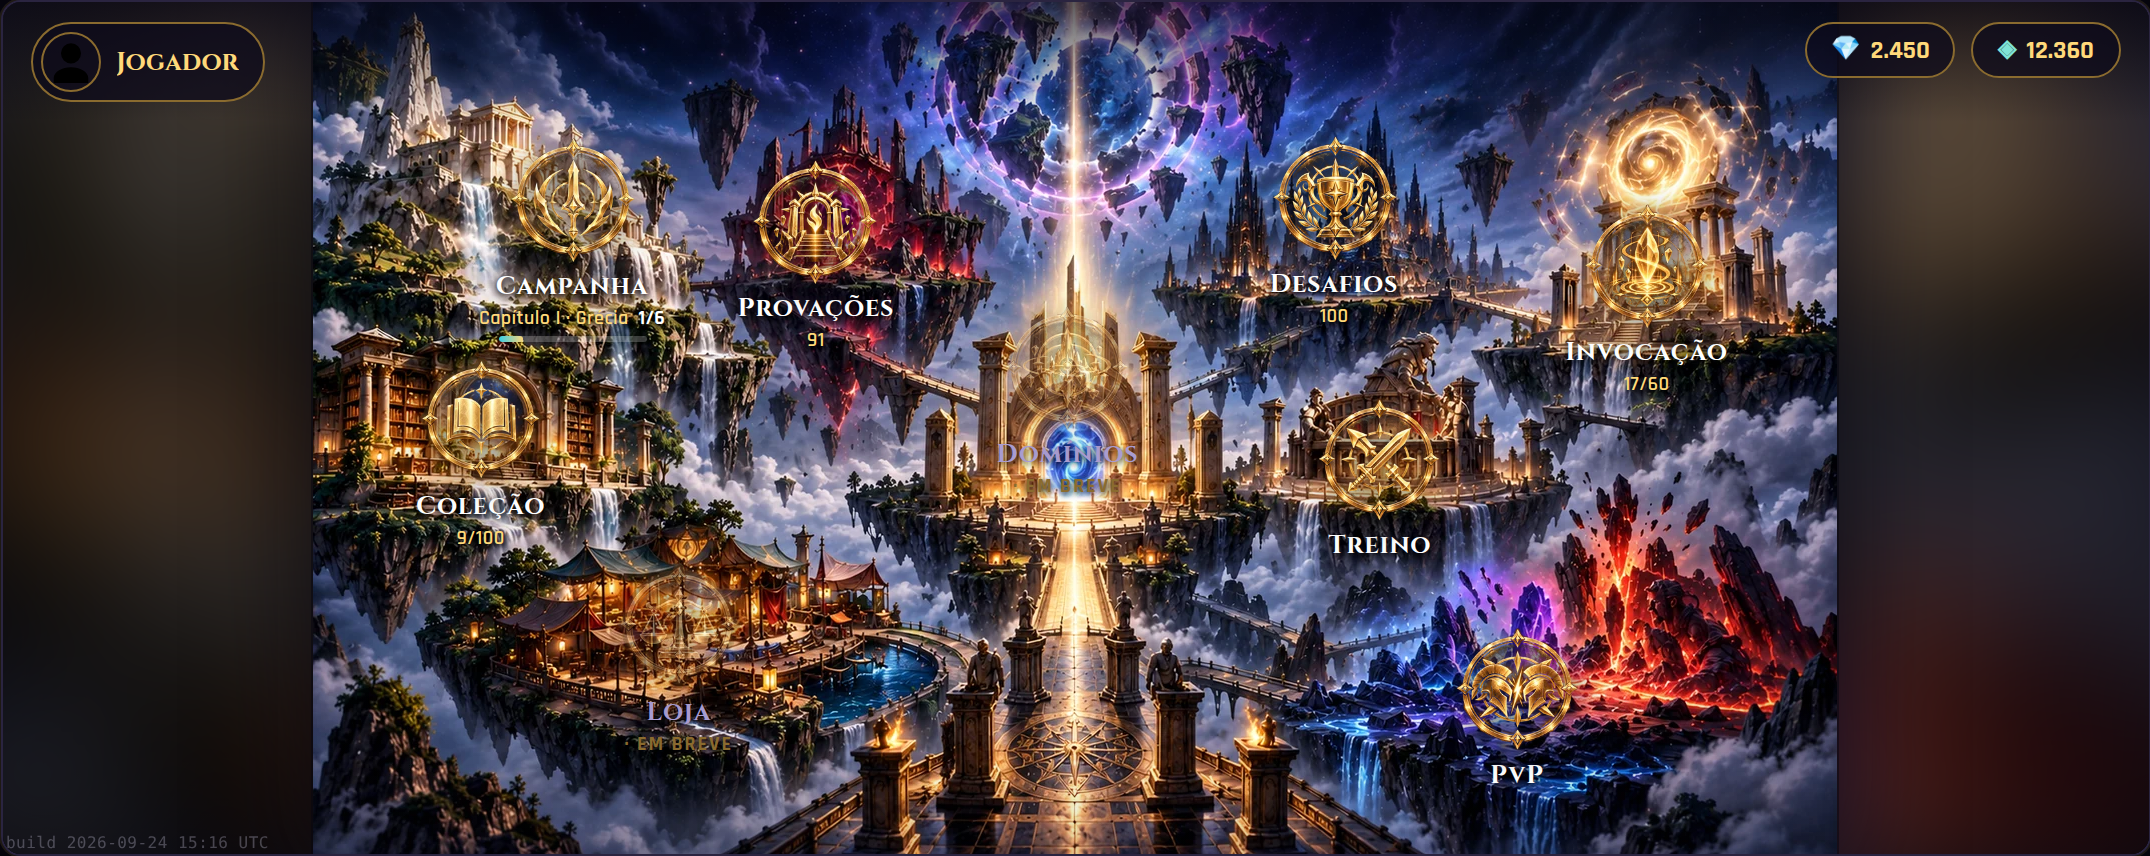
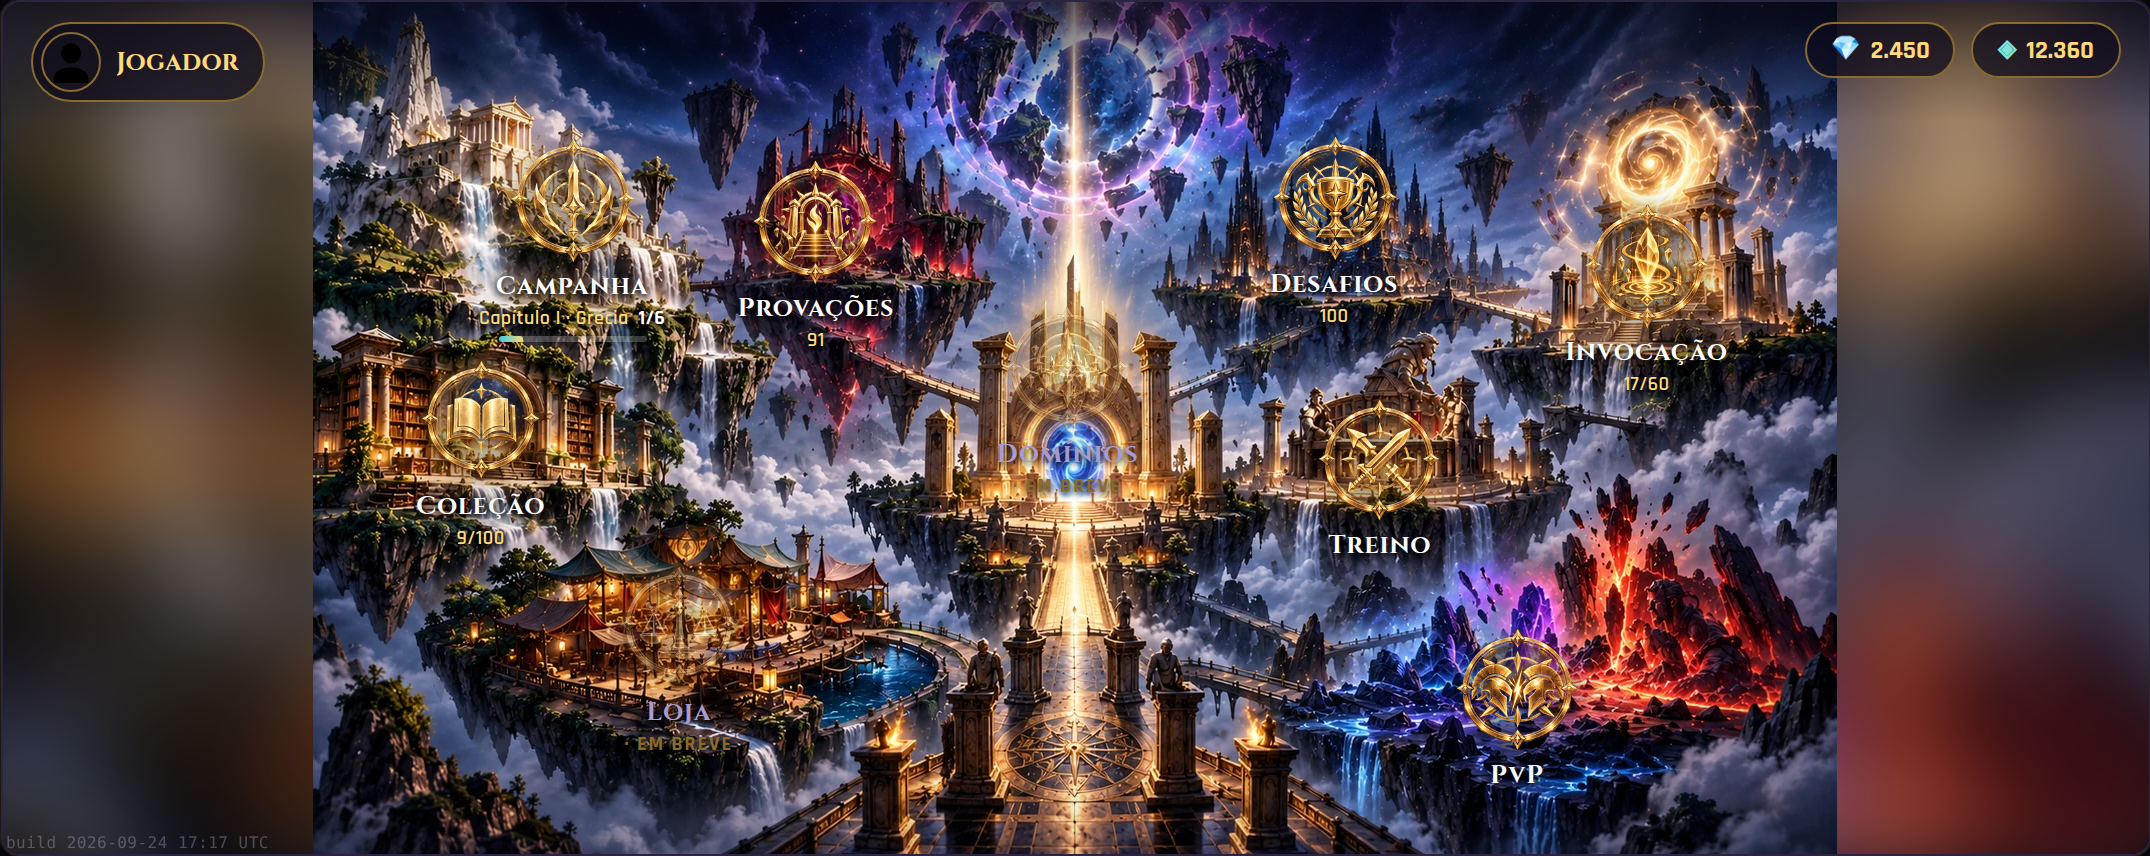
§309b: clareia a extensão do mapa (60–80% do brilho) + tira a vinheta
A extensão letterbox-blur do §309 (brightness .42) ficava escura demais:
no S24 media ~27 de brilho contra 60–70 do mapa nítido — menos da metade,
o olho lia banda preta em vez de continuação da cena.

Três ajustes, medidos pela razão extensão÷mapa (a captura é o veredito):
- brightness .42 → .75: "não competir" não é "sumir"; a extensão precisa
  ler como a mesma cena fora de foco, o que pede 60–80% do brilho, não 40%.
- blur 30px → 20px: o 30 apagava o contraste local junto com o detalhe
  (cinza chapado); o 20 mantém a variação claro/escuro que faz o olho
  reconhecer a continuação.
- vinheta (box-shadow) removida: escurecia exatamente a emenda e recriava
  a borda preta que o conserto existia para eliminar.

Razões no dist: 893 (largura do app no S24) = 0,62; 1075 (navegador do
dono) = 0,71 — ambas dentro do alvo de 60–80%. Capturas aprovadas.

Lição da sequência §308→§308b→§309→§309b (quatro cortes): "cortando as
laterais" foi lido como corte de imagem e medido como recorte duas vezes;
o sintoma real era faixa preta — mesma imagem, descrição oposta, conserto
oposto. Antes de medir, confirmar o que a pessoa vê. E uma direção
qualitativa ("não competir") precisa de alvo medível, senão a obediência
literal acerta a instrução e erra o objetivo.

Claude-Session: https://claude.ai/code/session_01RXkcJMEMadTZtCymgt9Yf6

Changed region(s): [[0.8414, 0.0, 1.0, 1.0], [0.0, 0.0, 0.1558, 0.972], [0.0, 0.8201, 0.0623, 1.0]]

diff --git a/src/shell.html b/src/shell.html
@@ -976,20 +976,22 @@ body{font-family:'Rajdhani',sans-serif;color:var(--ink);display:grid;place-items
    CAIXA DE PROPORÇÃO TRAVADA (1,78), centrada; o gutter mostra o stage__bg escuro (§305b, opção a).
    Os ícones ancoram em % DA ARTE (left/top da .ilha) — nunca saem das ilhas em 780..1200. */
 .mapa{position:absolute;inset:0;z-index:2;overflow:hidden}
-/* §309: o gutter deixa de ser preto e vira EXTENSÃO da própria arte — uma cópia do mapa cobrindo o palco inteiro,
-   DESFOCADA e ESCURECIDA, sob a caixa nítida (padrão letterbox-blur de app de vídeo). O olho lê como continuação da
-   cena; a tela não parece "não-preenchida". Mesmo arquivo (banners/mapa.webp) já em cache → PESO ZERO de rede; o
-   incursion.html cresce só o <img>. scale(1.08) esconde a borda transparente que o blur puxa; a caixa nítida fica por
-   cima (z-index maior). filter blur 30 + brilho .42 medidos no dist (§281): a extensão lê como fundo e não compete. */
+/* §309/§309b: o gutter vira EXTENSÃO da própria arte — cópia do mapa cobrindo o palco, DESFOCADA, sob a caixa nítida
+   (letterbox-blur de app de vídeo). Mesmo arquivo (banners/mapa.webp) em cache → PESO ZERO; o incursion.html cresce só
+   o <img>. scale(1.08) esconde a borda transparente que o blur puxa. §309b (o brilho .42 do §309 sumiu, virou tarja):
+   MEDIDO no dist a razão de brilho extensão÷mapa — brightness .75 + blur 20 dão ~0,71 (a mira do dono: 60–80%, perto o
+   bastante p/ ler como a mesma cena, longe o bastante p/ o mapa ser o assunto). Blur 30→20 preserva o contraste local.
+   A VINHETA (box-shadow na caixa) SAIU: escurecia justo a emenda, onde a continuidade tem de ser suave — a diferença de
+   NITIDEZ já separa o mapa da extensão (captura é o veredito, §281). */
 .mapa__fundo{position:absolute;inset:0;width:100%;height:100%;object-fit:cover;display:block;z-index:0;pointer-events:none;
-  transform:scale(1.08);filter:blur(30px) brightness(.42) saturate(.9)}
+  transform:scale(1.08);filter:blur(20px) brightness(.75) saturate(.95)}
 /* §308b: TRAVA em px explícito E FORA DO FLUXO (absolute). O §308 pôs width:762px num FLEX-ITEM — o Chromium honrava
    (762 em toda a faixa), mas a WebView do Galaxy S24 ESTICAVA o flex-item para a largura do palco (893) mesmo com
    flex:0 0 auto, e a arte (cover) cortava ~15% da altura. Um filho ABSOLUTO não é flex-item: nenhum pai (flex ou não)
    consegue esticá-lo. A caixa é um 762×428 CONHECIDO (762 = 428 × 1524/856, idêntico à arte), centrada por
    left/top:50% + translate — sem negociação de layout com motor nenhum. A arte (cover) preenche exato porque a razão
    bate (cover==contain aqui); os ícones ancoram em % de 762×428. */
-.mapa__caixa{position:absolute;left:50%;top:50%;transform:translate(-50%,-50%);width:762px;height:428px;z-index:1;box-shadow:0 0 0 1px rgba(6,5,16,.5),0 0 40px 8px rgba(6,5,16,.55)}
+.mapa__caixa{position:absolute;left:50%;top:50%;transform:translate(-50%,-50%);width:762px;height:428px;z-index:1}
 .mapa__art{position:absolute;inset:0;width:100%;height:100%;object-fit:cover;display:block}
 .mapa__scrim{position:absolute;inset:0;pointer-events:none;
   background:radial-gradient(120% 82% at 50% 42%,transparent 56%,rgba(6,5,16,.34) 100%)}

diff --git a/DECISOES.md b/DECISOES.md
@@ -6,6 +6,41 @@ O valor daqui é evitar que uma decisão seja desfeita por parecer arbitrária.
 
 ---
 
+## §309b — a extensão do §309 ficou ESCURA DEMAIS: calibrar o brilho. E a lição da sequência inteira (quatro cortes).
+
+A extensão do §309 funcionava mas o dono mediu no S24: brilho ~27 nas laterais contra 60–70 do mapa nítido — **menos da
+metade**, o olho lia banda preta, não continuação. O alvo dele: **a extensão entre 60% e 80% do brilho do mapa.**
+
+**A MEDIÇÃO (razão extensão ÷ mapa nítido, reportada ao dono; a captura é o veredito):**
+- **Antes (§309):** `blur(30px) brightness(.42)` → gutter 31, mapa 83, **razão 0,38**. Batia com os ~27 do aparelho.
+- **Depois (§309b):** `blur(20px) brightness(.75) saturate(.95)` → **893: razão 0,62** (a largura real do app no S24);
+  **1075: razão 0,71** (a do navegador do dono). Ambas dentro de 60–80%. Capturas 893/1075 enviadas e APROVADAS.
+
+**OS TRÊS AJUSTES — eles se explicam juntos:**
+- **brightness `.42` → `.75`:** o `.42` fez a extensão DESAPARECER. "Não competir" não é "sumir" — a extensão precisa
+  ler como a MESMA cena fora de foco, e isso pede 60–80% do brilho do mapa, não 40%. O `.42` obedeceu a instrução
+  ("não competir") e não resolveu o problema (a tela parecer cheia).
+- **blur `30px` → `20px`:** o `30` apagava o CONTRASTE LOCAL junto com o detalhe, e a extensão virava cinza chapado.
+  O `20` mantém a variação claro/escuro da cena — é essa variação que faz o olho RECONHECER a continuação, não só o
+  brilho médio.
+- **vinheta REMOVIDA:** o `box-shadow` do §309 escurecia EXATAMENTE a emenda e recriava a borda preta que o conserto
+  existia para eliminar. Medido com e sem: sem vinheta a transição extensão→mapa é contínua; com, reaparece o anel
+  escuro no encaixe. A vinheta separava o nítido da extensão, mas ao custo de re-escurecer a junção — troca ruim.
+
+**★ A LIÇÃO DA SEQUÊNCIA INTEIRA (§308 → §308b → §309 → §309b — custou QUATRO cortes):** o dono disse "cortando as
+laterais". Eu li **corte de imagem** e mandei medir recorte DUAS vezes (§308, §308b). O sintoma real era **faixa preta**
+— a mesma imagem, a descrição oposta, o conserto oposto. Depois, ao consertar, pedi-me "não competir com o mapa" e
+apliquei `.42`, que resolveu a INSTRUÇÃO e não o PROBLEMA. **As duas metades:**
+1. **Antes de medir, confirmar O QUE A PESSOA VÊ**, não interpretar a palavra dela. ("Cortando" e "faixa preta" leem a
+   mesma tela e pedem consertos opostos — só a confirmação do sintoma desfaz o empate.)
+2. **Ao dar uma direção QUALITATIVA ("não competir"), dar também o ALVO MEDÍVEL** (60–80% do brilho), senão a obediência
+   literal acerta a instrução e erra o objetivo — foi exatamente o `.42`.
+
+**Guarda:** as asserções do §309 (`mapa.test.js`) seguem valendo (mesmo arquivo, não-base64, aria-hidden, atrás da
+caixa). §309b muda só a intensidade do filtro e remove a vinheta — nada que uma guarda de estrutura trave.
+
+---
+
 ## §309 — a FAIXA PRETA do mapa: o sintoma era outro. Gutter vira EXTENSÃO da arte. E a lição: confirmar o sintoma.
 
 **★ EU DIAGNOSTIQUEI DUAS VEZES CONTRA A DESCRIÇÃO DO DONO SEM CONFIRMAR O QUE ELE VIA.** O dono nunca teve corte — o

diff --git a/ESTADO.md b/ESTADO.md
@@ -2,6 +2,24 @@
 
 > Atualizado ao fim de cada sessão. Quem lê é uma sessão sem memória.
 
+## ★ MAPA §309b — a extensão do §309 ficou ESCURA DEMAIS: calibrar o brilho (60–80% do mapa). Lição: a sequência de 4 cortes.
+
+A extensão do §309 (`brightness(.42)`) sumia: o dono mediu no S24 brilho ~27 contra 60–70 do mapa — menos da metade, o
+olho lia banda preta. Alvo dele: extensão entre **60% e 80%** do brilho do mapa. **Medi a razão extensão÷mapa (a captura
+é o veredito):** antes `blur(30) brightness(.42)` → 0,38; depois **`blur(20px) brightness(.75) saturate(.95)`** → **893:
+0,62** (largura real do app no S24), **1075: 0,71** (navegador do dono) — ambas em 60–80%, capturas enviadas e APROVADAS.
+**Três ajustes, juntos:** (1) brightness `.42`→`.75` — "não competir" não é "sumir"; a extensão lê como a mesma cena fora
+de foco, e isso pede 60–80%, não 40%. (2) blur `30`→`20` — o 30 apagava o CONTRASTE LOCAL junto com o detalhe (cinza
+chapado); o 20 mantém a variação claro/escuro, que é o que o olho reconhece como continuação. (3) **vinheta REMOVIDA** —
+o `box-shadow` escurecia EXATAMENTE a emenda e recriava a borda preta que o conserto existia para matar (medido com/sem:
+sem é contínuo). **★ Lição da sequência (§308→§308b→§309→§309b, quatro cortes):** o dono disse "cortando as laterais"; li
+CORTE e mandei medir recorte duas vezes; o sintoma era FAIXA PRETA — mesma imagem, descrição oposta, conserto oposto.
+Depois pedi-me "não competir" e apliquei `.42`, que resolveu a INSTRUÇÃO e não o PROBLEMA. **Duas metades:** (a) antes de
+medir, confirmar O QUE A PESSOA VÊ, não interpretar a palavra; (b) direção qualitativa ("não competir") precisa de ALVO
+MEDÍVEL (60–80%), senão a obediência literal acerta a instrução e erra o objetivo. Guardas do §309 (`mapa.test.js`) seguem
+valendo — §309b só muda a intensidade do filtro e tira a vinheta. Capturas 893/1075 em `docs/capturas-309/`. **Arquivos:**
+`src/shell.html` (filtro `.mapa__fundo` + vinheta removida), `docs/capturas-309/`. Ver DECISOES §309b. Suíte + build verdes.
+
 ## ★ MAPA §309 — a "faixa preta" do mapa: o sintoma era outro. Gutter vira EXTENSÃO da arte. Lição: confirmar o sintoma.
 
 O dono nunca teve corte — o `?diag` no aparelho provou que a trava do §308b pega. O que o incomodava era a **faixa preta**
